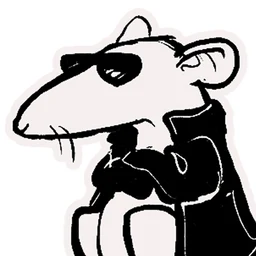
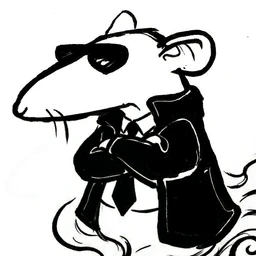
Genio: novo mascote com a lampada magica
Avatar recortado no rosto e figura inteira em adesivo com borda branca, legivel no modo claro e escuro.

diff --git a/src/components/planejamento/plan-genie.tsx b/src/components/planejamento/plan-genie.tsx
@@ -713,7 +713,7 @@ export function PlanGenie(props: Props) {
             <div ref={tapeRef} className="flex-1 min-h-0 overflow-y-auto px-3 py-3 space-y-2.5" aria-live="polite">
               {msgs.length === 0 ? (
                 <div className="flex flex-col items-center pt-2 text-center">
-                  <Image src="/bot/muvo-genio-full.webp" alt="Mascote do MUVO Gênio: um rato de óculos escuros e jaqueta" width={720} height={756} className="h-36 w-auto select-none" />
+                  <Image src="/bot/muvo-genio-full.webp" alt="Mascote do MUVO Gênio: um rato de óculos escuros e terno saindo de uma lâmpada mágica" width={720} height={931} className="h-40 w-auto select-none" />
                   <p className="mt-3 font-display text-lg font-black tracking-tight">Peça uma conta ou uma mudança</p>
                   <p className="mt-1 max-w-[30ch] text-xs text-muted-foreground">Eu faço contas, simulo juros e parcelas, e mexo no seu planejamento por texto. Tudo que eu mudar tem Desfazer.</p>
                   <div className="mt-4 flex flex-wrap justify-center gap-1.5">
